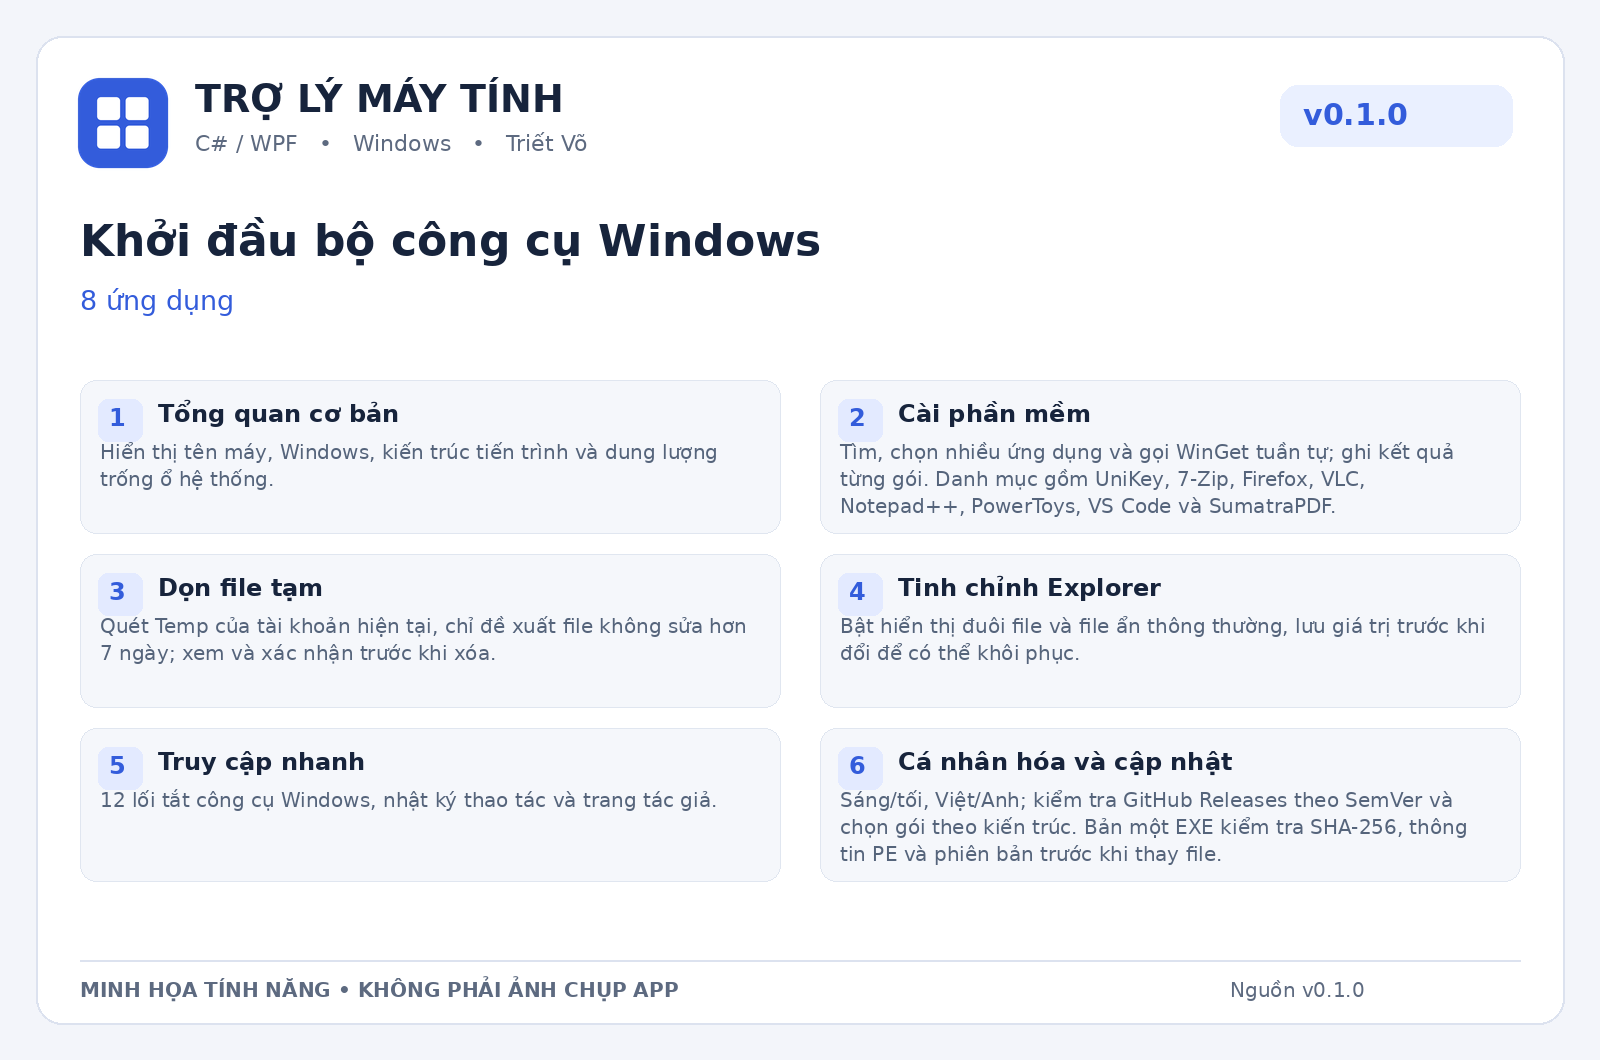
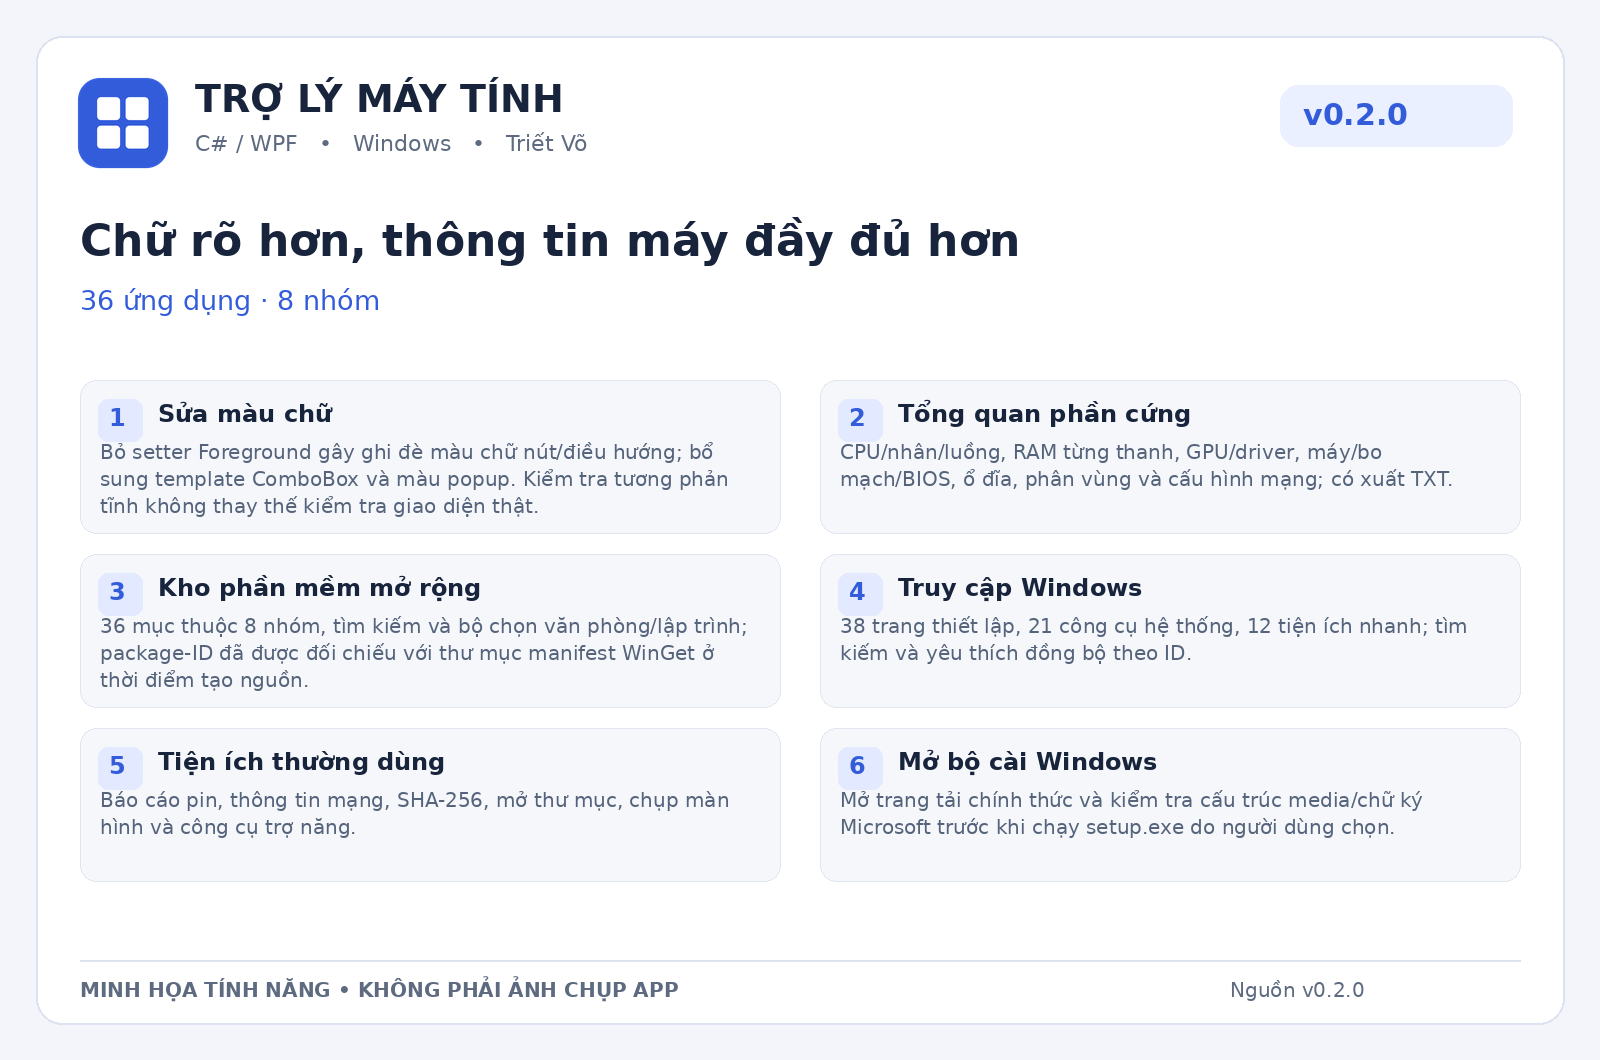
Refresh v0.2.0 docs and overview
Update the project documentation to v0.2.0, expanding the feature summary to cover hardware reporting, software catalog, Windows access tools, and utility modules. The README now reflects the broader app scope, revised installation steps, updated version references, and revised limits. The overview artwork was refreshed to match the new documentation.

diff --git a/README.md b/README.md
@@ -2,15 +2,15 @@
   <img src="assets/logo.png" width="96" alt="Logo Trợ Lý Máy Tính">
 </p>
 
-# Trợ Lý Máy Tính · v0.1.0
+# Trợ Lý Máy Tính · v0.2.0
 
-**Khởi đầu bộ công cụ Windows.**
+**Chữ rõ hơn, thông tin máy đầy đủ hơn.**
 
-Ứng dụng desktop **C# / WPF** giúp tập trung công cụ hỗ trợ Windows vào một nơi. Tác giả: **Triết Võ**. Giao diện **Tiếng Việt / English**, **Sáng / Tối**. Bản này có **8 ứng dụng**.
+Ứng dụng desktop **C# / WPF** giúp tập trung công cụ hỗ trợ Windows vào một nơi. Tác giả: **Triết Võ**. Giao diện **Tiếng Việt / English**, **Sáng / Tối**. Bản này có **36 ứng dụng · 8 nhóm**.
 
-> Đây là tài liệu cho **mã nguồn v0.1.0**, không phải thông báo đã phát hành EXE ổn định. Chưa có kết quả build C#, chạy WPF hoặc kiểm thử Windows được xác nhận trong môi trường biên soạn. Các chức năng bên dưới mô tả phần đã viết mã và giới hạn tương ứng.
+> Đây là tài liệu cho **mã nguồn v0.2.0**, không phải thông báo đã phát hành EXE ổn định. Chưa có kết quả build C#, chạy WPF hoặc kiểm thử Windows được xác nhận trong môi trường biên soạn. Các chức năng bên dưới mô tả phần đã viết mã và giới hạn tương ứng.
 
-![Tóm tắt tính năng v0.1.0](assets/overview.png)
+![Tóm tắt tính năng v0.2.0](assets/overview.png)
 
 *Ảnh minh họa nội dung phiên bản; không phải ảnh chụp ứng dụng đang chạy. Logo được dùng thống nhất cho bộ tài liệu lịch sử.*
 
@@ -18,18 +18,18 @@
 
 | Hạng mục | Nội dung |
 | --- | --- |
-| **Tổng quan cơ bản** | Hiển thị tên máy, Windows, kiến trúc tiến trình và dung lượng trống ổ hệ thống. |
-| **Cài phần mềm** | Tìm, chọn nhiều ứng dụng và gọi WinGet tuần tự; ghi kết quả từng gói. Danh mục gồm UniKey, 7-Zip, Firefox, VLC, Notepad++, PowerToys, VS Code và SumatraPDF. |
-| **Dọn file tạm** | Quét Temp của tài khoản hiện tại, chỉ đề xuất file không sửa hơn 7 ngày; xem và xác nhận trước khi xóa. |
-| **Tinh chỉnh Explorer** | Bật hiển thị đuôi file và file ẩn thông thường, lưu giá trị trước khi đổi để có thể khôi phục. |
-| **Truy cập nhanh** | 12 lối tắt công cụ Windows, nhật ký thao tác và trang tác giả. |
-| **Cá nhân hóa và cập nhật** | Sáng/tối, Việt/Anh; kiểm tra GitHub Releases theo SemVer và chọn gói theo kiến trúc. Bản một EXE kiểm tra SHA-256, thông tin PE và phiên bản trước khi thay file. |
+| **Sửa màu chữ** | Bỏ setter Foreground gây ghi đè màu chữ nút/điều hướng; bổ sung template ComboBox và màu popup. Kiểm tra tương phản tĩnh không thay thế kiểm tra giao diện thật. |
+| **Tổng quan phần cứng** | CPU/nhân/luồng, RAM từng thanh, GPU/driver, máy/bo mạch/BIOS, ổ đĩa, phân vùng và cấu hình mạng; có xuất TXT. |
+| **Kho phần mềm mở rộng** | 36 mục thuộc 8 nhóm, tìm kiếm và bộ chọn văn phòng/lập trình; package-ID đã được đối chiếu với thư mục manifest WinGet ở thời điểm tạo nguồn. |
+| **Truy cập Windows** | 38 trang thiết lập, 21 công cụ hệ thống, 12 tiện ích nhanh; tìm kiếm và yêu thích đồng bộ theo ID. |
+| **Tiện ích thường dùng** | Báo cáo pin, thông tin mạng, SHA-256, mở thư mục, chụp màn hình và công cụ trợ năng. |
+| **Mở bộ cài Windows** | Mở trang tải chính thức và kiểm tra cấu trúc media/chữ ký Microsoft trước khi chạy setup.exe do người dùng chọn. |
 
 ## Bắt đầu sử dụng
 
-1. Xem Tổng quan và chọn ngôn ngữ, giao diện trong Cài đặt.
-2. Mở Cài phần mềm, tìm gói, chọn mục và đọc kết quả cài từng ứng dụng.
-3. Với Dọn dẹp hoặc Tinh chỉnh, xem danh sách thay đổi trước khi xác nhận.
+1. Làm mới Tổng quan để đọc cấu hình, xem rõ mục nào không lấy được dữ liệu.
+2. Tìm và chọn gói trong kho, hoặc lưu công cụ thường dùng vào Yêu thích.
+3. Gắn ISO bằng Windows rồi chọn setup.exe nếu cần mở Windows Setup.
 
 Các thao tác cài gói, bảo trì hoặc thay đổi Windows có thể yêu cầu quyền quản trị. Quyền và xác nhận được xử lý theo thao tác; không suy ra đã cài thành công chỉ từ việc đã chọn gói. Đọc kết quả và nhật ký sau khi chạy.
 
@@ -40,7 +40,7 @@ Các thao tác cài gói, bảo trì hoặc thay đổi Windows có thể yêu c
 - Lối tắt và provider hệ thống tùy phiên bản/edition Windows, phần cứng và chính sách máy.
 - Chọn kiến trúc x64 hoặc ARM64 cho ứng dụng; các công cụ triển khai, firmware và phần mềm bên ngoài có giới hạn riêng.
 
-1. Giải nén toàn bộ nguồn `TroLyMayTinh-CSharp-v0.1.0.zip` vào một thư mục mới.
+1. Giải nén toàn bộ nguồn `TroLyMayTinh-CSharp-v0.2.0.zip` vào một thư mục mới.
 2. Chạy `Build.cmd` từ thư mục có `TroLyMayTinh.sln`.
 3. Script build, chạy các kiểm tra đi kèm và publish. Chỉ dùng file đầu ra khi toàn bộ bước yêu cầu thành công.
 
@@ -66,8 +66,8 @@ Asset portable dùng tên `TroLyMayTinh-win-x64.exe` hoặc `TroLyMayTinh-win-ar
 
 ## Phạm vi và giới hạn
 
-- Chưa có Windows Setup, WinPE, QEMU, driver hoặc runtime center.
-- Nhận diện ứng dụng qua registry có thể bỏ sót bản portable. Chưa có bộ cài Setup; script tạo bản portable.
+- Chưa có triển khai Windows từ ổ cứng, thao tác phân vùng hoặc ghi boot.
+- Không đóng gói ISO hay tự tải/gắn ISO; kết quả truy vấn phần cứng phụ thuộc quyền và provider của Windows.
 - Không đóng gói bộ cài bên thứ ba hoặc cấp lại bản quyền phần mềm. Giấy phép và điều kiện sử dụng thuộc nhà phát hành tương ứng.
 - Quét file tạm không tự xóa; khi xác nhận xóa, file có thể bị xóa vĩnh viễn. Tinh chỉnh chỉ khôi phục được phần trạng thái ứng dụng đã lưu.
 - Nhật ký/báo cáo có thể có thông tin máy hoặc đường dẫn; xem lại nội dung trước khi chia sẻ.
@@ -76,6 +76,6 @@ Asset portable dùng tên `TroLyMayTinh-win-x64.exe` hoặc `TroLyMayTinh-win-ar
 
 **Triết Võ** — Trợ Lý Máy Tính.
 
-Khi báo lỗi, ghi phiên bản **v0.1.0**, Windows/build, kiến trúc, bước tái hiện, hành vi mong đợi và thông báo lỗi đầy đủ. Chỉ gửi log đã xem lại dữ liệu cá nhân. Không có cam kết mọi máy hoặc mọi gói phần mềm đều tương thích.
+Khi báo lỗi, ghi phiên bản **v0.2.0**, Windows/build, kiến trúc, bước tái hiện, hành vi mong đợi và thông báo lỗi đầy đủ. Chỉ gửi log đã xem lại dữ liệu cá nhân. Không có cam kết mọi máy hoặc mọi gói phần mềm đều tương thích.
 
 Giấy phép mã nguồn chưa được chọn trong gói nguồn đã đối chiếu. README này không tự cấp quyền tái sử dụng; chủ dự án cần quyết định và bổ sung `LICENSE` trước khi công bố điều khoản phân phối.
